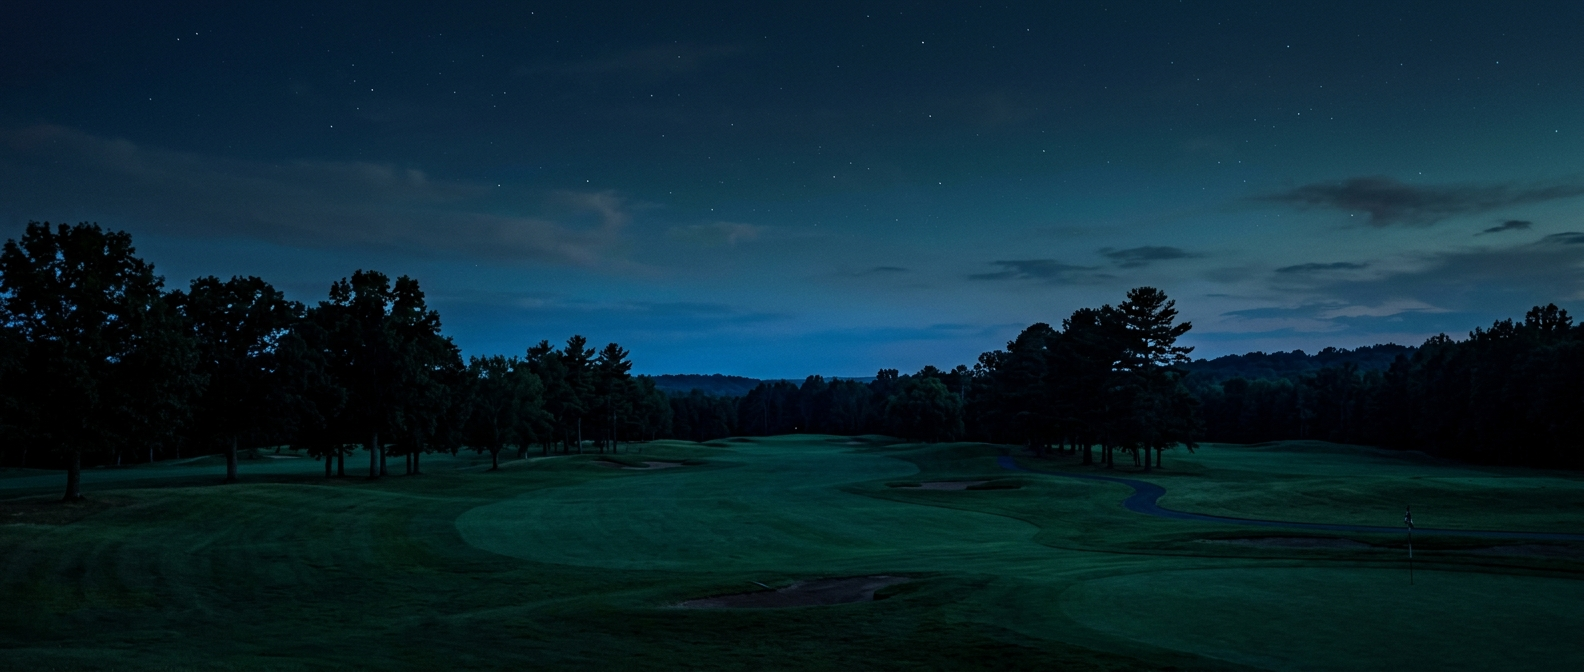
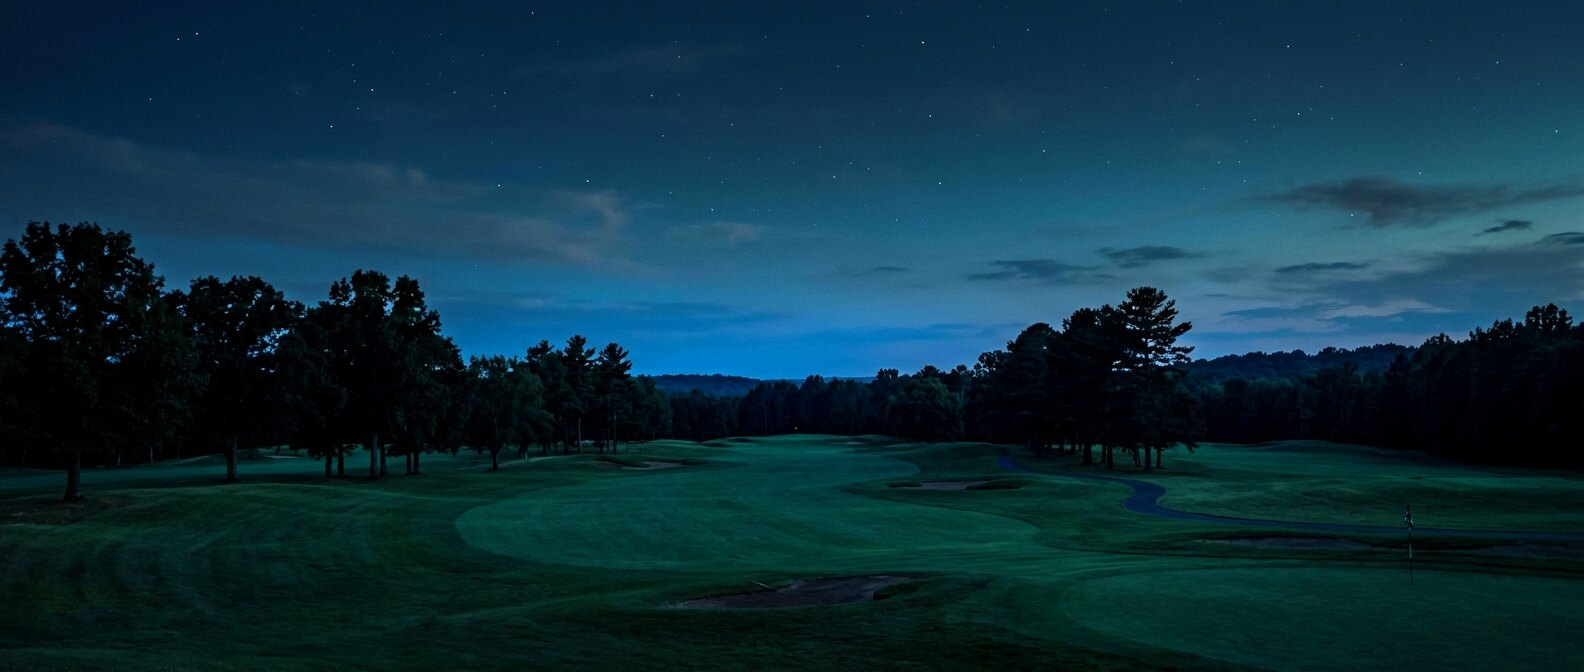
Lighten dark-mode backdrop so the golf course reads (#13)
Brighten the twilight image ~22% and reduce the dark scrim opacity.

Changed region(s): [[0.0928, 0.2188, 1.0, 0.5938], [0.9899, 0.375, 1.0, 0.4062]]

diff --git a/src/app/globals.css b/src/app/globals.css
@@ -106,12 +106,12 @@ body::after {
 
 .dark .backdrop-scrim {
   background:
-    radial-gradient(120% 80% at 50% 18%, rgba(9, 9, 11, 0.12), transparent 58%),
+    radial-gradient(120% 80% at 50% 18%, rgba(9, 9, 11, 0.08), transparent 60%),
     linear-gradient(
       180deg,
-      rgba(9, 9, 11, 0.5) 0%,
-      rgba(9, 9, 11, 0.4) 42%,
-      rgba(9, 9, 11, 0.82) 100%
+      rgba(9, 9, 11, 0.38) 0%,
+      rgba(9, 9, 11, 0.26) 45%,
+      rgba(9, 9, 11, 0.72) 100%
     );
 }
 